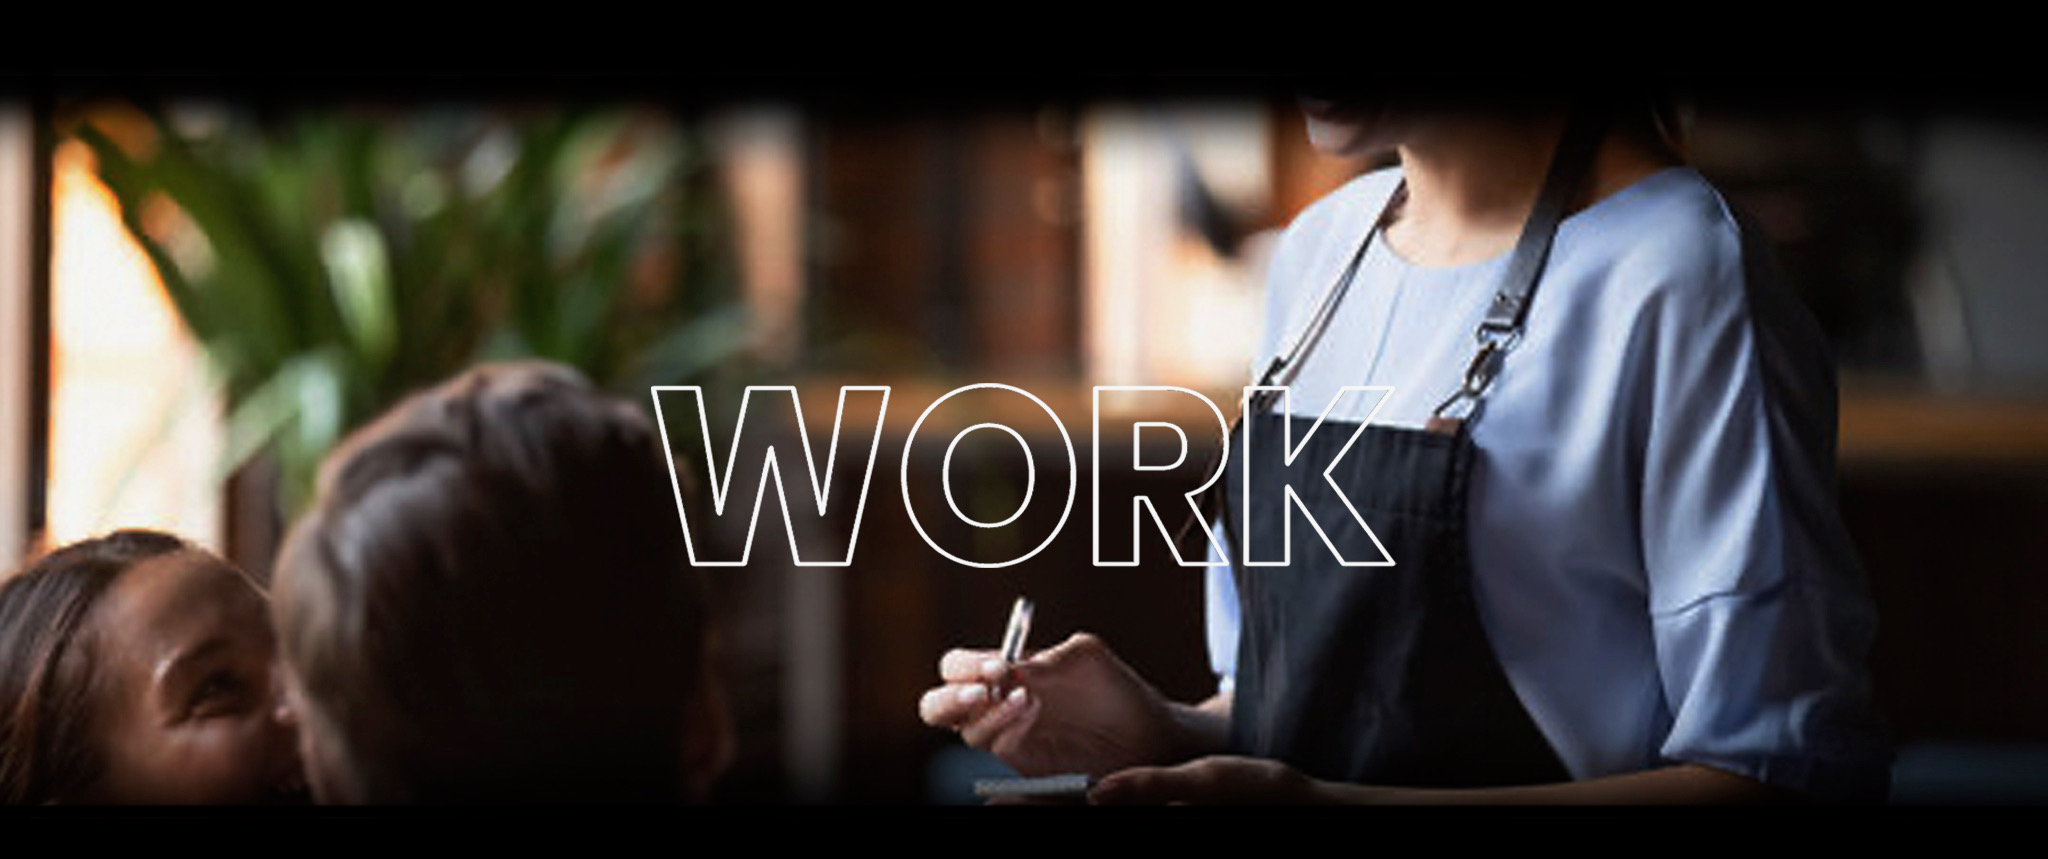
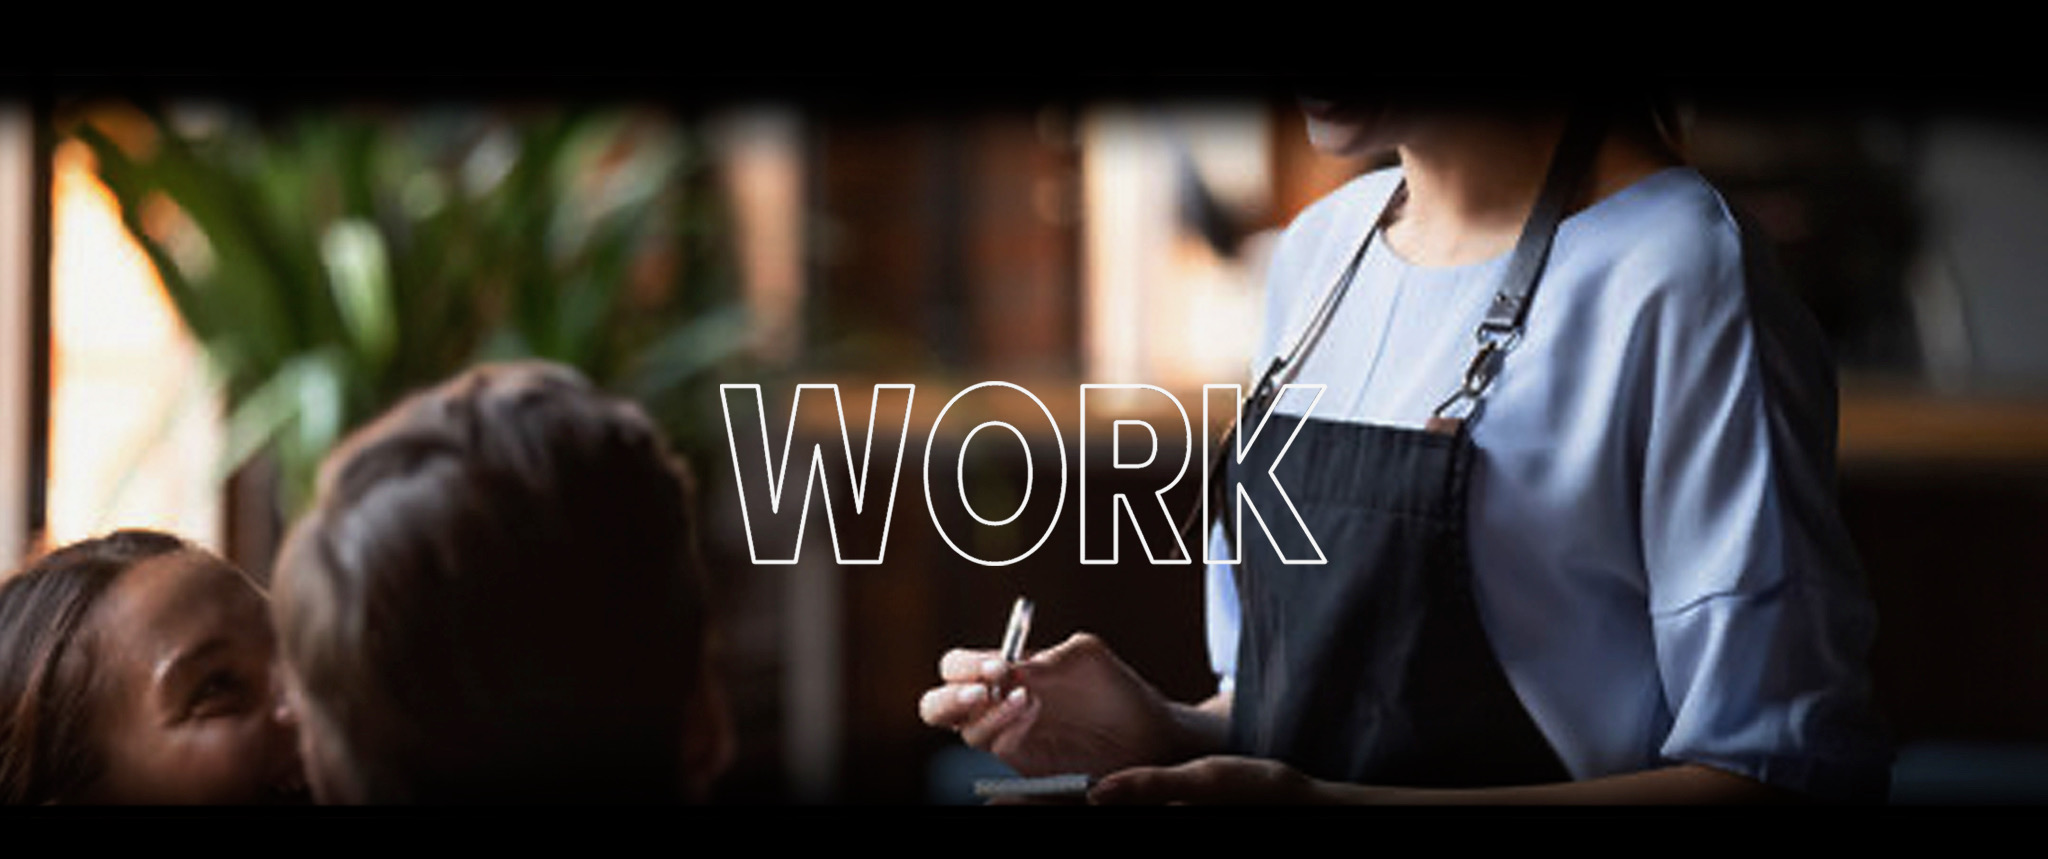
fixed typos and details

Changed region(s): [[0.3125, 0.4237, 0.6875, 0.6659], [0.4688, 0.4237, 0.5, 0.454]]

diff --git a/dance.html b/dance.html
@@ -52,7 +52,7 @@
     <div class="dance-hero-description-wrapper">
       <div class="dance-hero-description">
         <p>
-          My dance journy started when I was 6 years old and had my first slovak folklore dancing class. Since then it has been a long ride 
+          My dance journey started when I was 6 years old and had my first slovak folklore dancing class. Since then it has been a long ride 
           of falling in and out of love with folklore, but as I was getting past my teenage resentment to everything, I quickly realised how 
           much affection I had for it. Sadly, due to school and other responsibilities, I had to leave my dancing group after almost 13 years of 
           dancing.

diff --git a/hobbies.html b/hobbies.html
@@ -48,7 +48,7 @@
   
     <div class="hobbies-hero-description">
       <p>
-        I'm always trying to keep my body and mind moving, that's why there are many hobbies I found in my life, some of which I maintain regularly to this day, 
+        I'm always trying to keep my body and mind moving, that's why there are many hobbies I've found in my life, some of which I maintain regularly to this day, 
         and some which are already in my past. Physical activities have always had a reserved space in my heart, from casual running and excercising, through 
         dancing and playing tennis up to snowboarding and ice-skating. Here are some of the hobbies that influenced my life the most.
       </p>

diff --git a/styles-work/work.css b/styles-work/work.css
@@ -3,7 +3,7 @@
 }
 
 .work-hero {
-  background-image: url(../pics/work/hero-work.JPEG);
+  background-image: url(../pics/work/work-hero.JPEG);
   background-repeat: no-repeat;
   background-size: cover;
   background-position: bottom center;
@@ -33,6 +33,10 @@
 }
 
 @media screen and (max-width: 768px) {
+
+  .work-hero {
+    margin-top: -15rem;
+  }
   
   .work-hero-description {
     font-size: 17px;

diff --git a/styles-hobbies/travel.css b/styles-hobbies/travel.css
@@ -31,7 +31,7 @@ body {
 }
 
 .travel-hero {
-  background-image: url(../pics/travel/travel-hero1.JPEG);
+  background-image: url(../pics/travel/travel-hero.JPEG);
   background-repeat: no-repeat;
   background-size: cover;
   background-position: bottom center;
